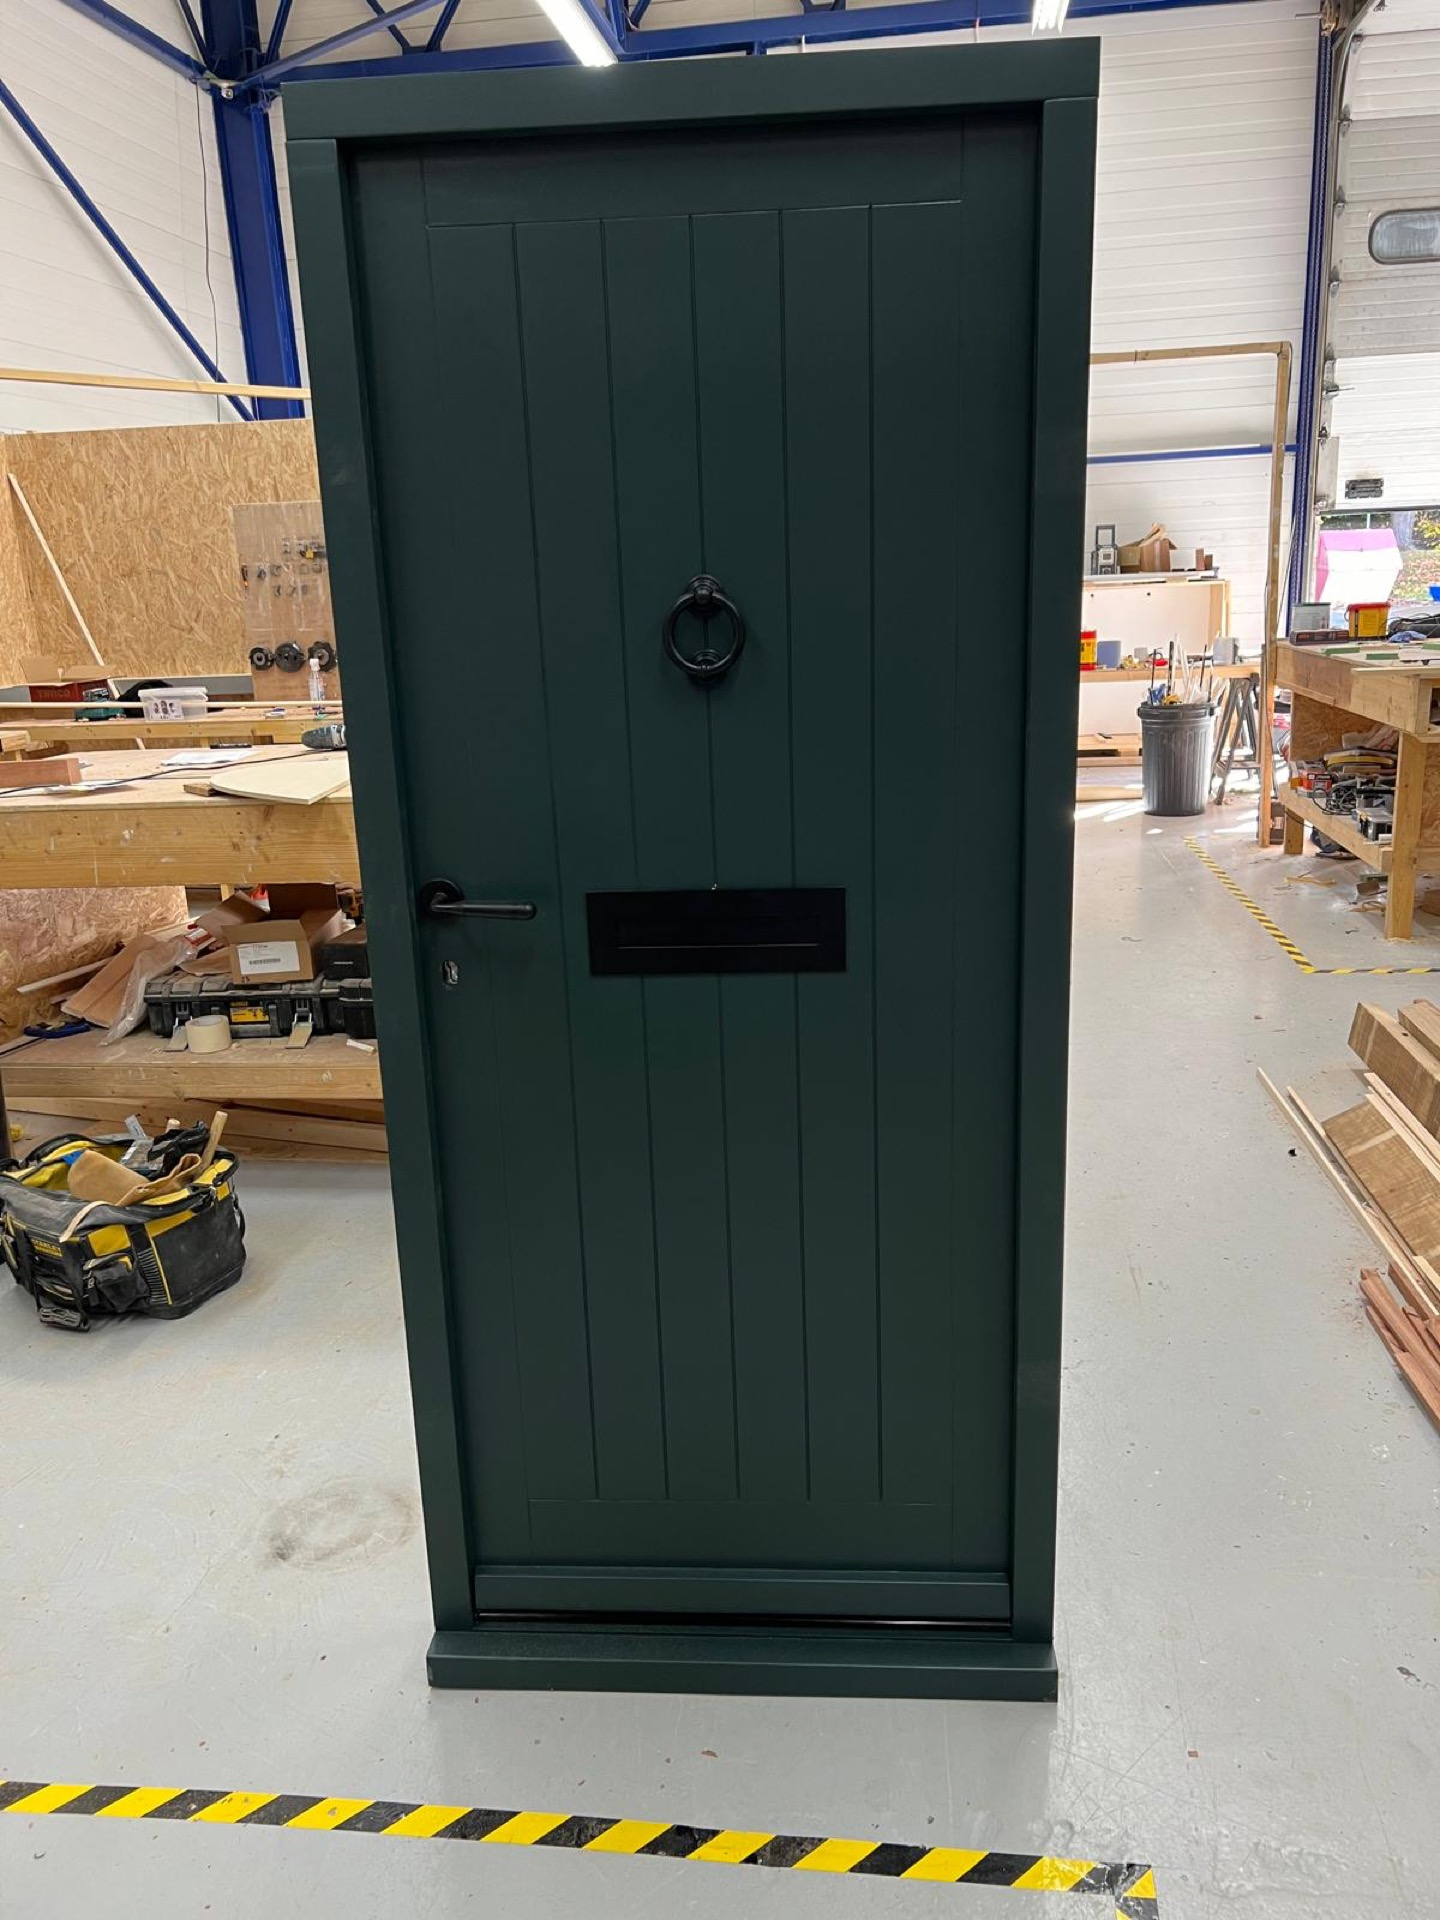
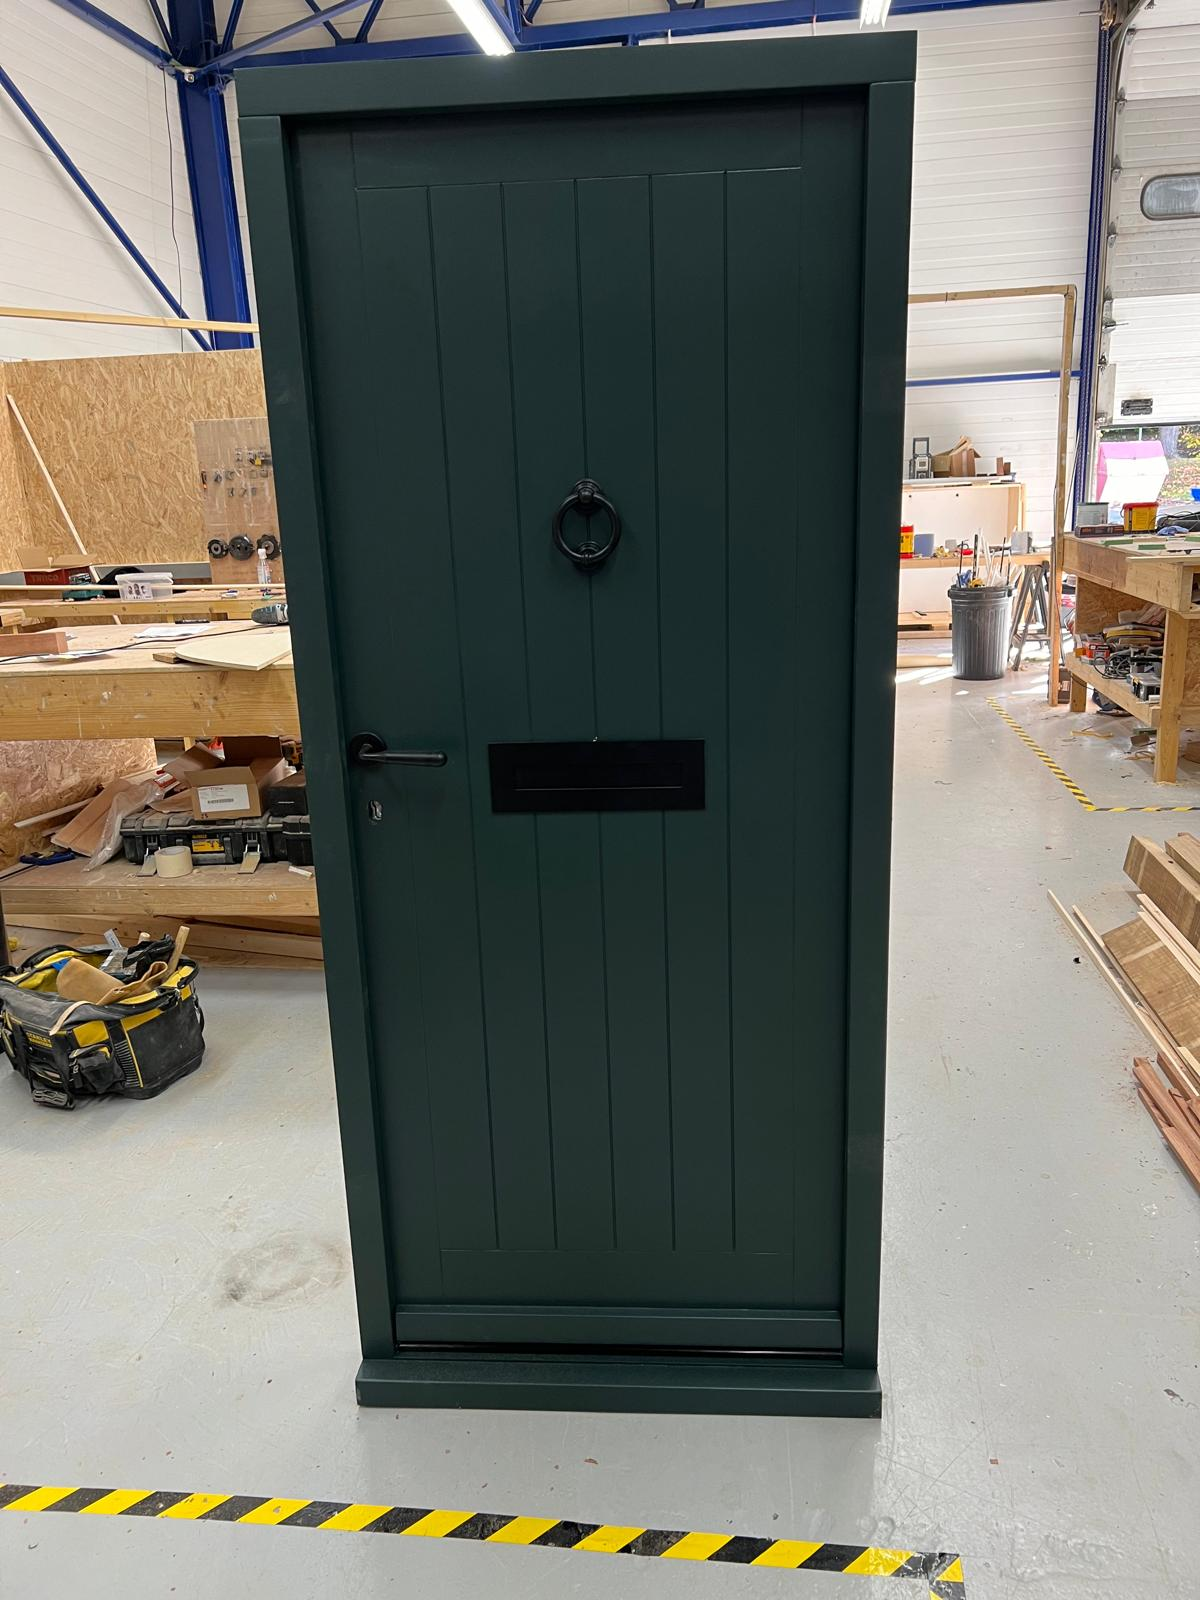
Client updates batch 1: pre-approved fix, Fineo reword, nationwide copy, footer partner links, Google reviews, composite doors page, door designer link

Changed region(s): [[0.8942, 0.25, 0.925, 0.2812]]

diff --git a/src/app/composite-doors/page.tsx b/src/app/composite-doors/page.tsx
@@ -1,0 +1,152 @@
+import type { Metadata } from 'next';
+import Link from 'next/link';
+import Image from 'next/image';
+
+export const metadata: Metadata = {
+  title: 'Composite Doors Edinburgh | Design Your Door Online | EW&D',
+  description: 'High-performance composite doors supplied and fitted across Scotland. Design your door online with our door designer tool. Competitive pricing, full installation service.',
+};
+
+export default function CompositeDoors() {
+  return (
+    <>
+      <div className="hero-internal" style={{ backgroundImage: "url('/images/traditional mews house front door.jpg')" }}>
+        <div className="hero-content">
+          <h1>Composite Doors — Designed Online, Installed Perfectly</h1>
+          <p className="hero-sub">High-performance composite doors designed to your exact specification. Use our online door designer, then let us handle supply and installation across Scotland.</p>
+          <div className="hero-ctas">
+            <a href="https://portico.portal.bm-touch.co.uk/launch/edinburgh-windows-and-doo462" target="_blank" rel="noopener noreferrer" className="btn btn-primary btn-lg">Design Your Door</a>
+            <Link href="/contact" className="btn btn-white btn-lg">Get a Quote</Link>
+          </div>
+        </div>
+      </div>
+
+      {/* Door designer CTA */}
+      <section style={{ background: 'var(--navy)', padding: '3rem 2rem' }}>
+        <div className="container">
+          <div className="two-col" style={{ alignItems: 'center', gap: '3rem' }}>
+            <div>
+              <span className="section-eyebrow" style={{ color: 'var(--orange)' }}>Online Door Designer</span>
+              <h2 style={{ color: '#fff', fontSize: '2rem', marginBottom: '1rem' }}>Design your door in minutes</h2>
+              <p style={{ color: 'rgba(255,255,255,0.8)', lineHeight: 1.7, marginBottom: '1.5rem' }}>Use our interactive door designer to choose your style, colour, glazing, and hardware. See exactly what your door will look like before you order — then send us your design and we&apos;ll take care of everything.</p>
+              <ul style={{ color: 'rgba(255,255,255,0.75)', lineHeight: 2, listStyle: 'none', marginBottom: '2rem' }}>
+                <li>✓ Hundreds of door styles and colour options</li>
+                <li>✓ Choose glazing panels and decorative glass</li>
+                <li>✓ Select hardware — handles, knockers, letterplates</li>
+                <li>✓ Preview your design before ordering</li>
+              </ul>
+              <a href="https://portico.portal.bm-touch.co.uk/launch/edinburgh-windows-and-doo462" target="_blank" rel="noopener noreferrer" className="btn btn-primary btn-lg">Open Door Designer →</a>
+            </div>
+            <div style={{ textAlign: 'center' }}>
+              <Image
+                src="/images/Accoya timber front door bespoke.jpg"
+                alt="Composite door design options"
+                width={500}
+                height={550}
+                style={{ width: '100%', height: 'auto', borderRadius: '4px', maxWidth: '420px' }}
+              />
+            </div>
+          </div>
+        </div>
+      </section>
+
+      {/* Why composite */}
+      <section className="light-bg">
+        <div className="container">
+          <span className="section-eyebrow">Why Composite?</span>
+          <h2 className="section-title">The Benefits of Composite Doors</h2>
+          <div className="features-grid">
+            <div className="feature-box">
+              <h3>Outstanding Security</h3>
+              <p>Multi-point locking as standard. GRP composite skin over insulated foam core. Tough, resistant to warping and forced entry.</p>
+            </div>
+            <div className="feature-box">
+              <h3>Low Maintenance</h3>
+              <p>Never needs painting. Colour-fast UV-stable finish holds for decades. Just wipe clean — no sanding, no repainting.</p>
+            </div>
+            <div className="feature-box">
+              <h3>Excellent Thermal Performance</h3>
+              <p>Insulated foam core gives composite doors outstanding energy efficiency — far better than timber or uPVC alternatives.</p>
+            </div>
+            <div className="feature-box">
+              <h3>Authentic Timber Look</h3>
+              <p>Woodgrain finish is virtually indistinguishable from timber at a glance — without any of the maintenance requirements.</p>
+            </div>
+            <div className="feature-box">
+              <h3>Wide Style Range</h3>
+              <p>Hundreds of styles, colours, and glazing options. Traditional, contemporary, cottage, and bespoke designs available.</p>
+            </div>
+            <div className="feature-box">
+              <h3>Fully Installed</h3>
+              <p>We supply and fit. Full installation across Edinburgh, Glasgow, and Scotland. Guaranteed workmanship on all installations.</p>
+            </div>
+          </div>
+        </div>
+      </section>
+
+      {/* Supply & install */}
+      <section>
+        <div className="container">
+          <div className="two-col">
+            <Image
+              src="/images/Accoya door.jpeg"
+              alt="Door installation service"
+              width={600}
+              height={450}
+              style={{ width: '100%', height: 'auto', borderRadius: '4px' }}
+            />
+            <div>
+              <h2>Supply and installation across Scotland</h2>
+              <p>Edinburgh Windows &amp; Doors supplies and installs composite doors across Edinburgh, Glasgow, and throughout Scotland. Whether you&apos;re replacing a single front door or specifying doors for a new development, we&apos;ll handle the full process from design to installation.</p>
+              <p style={{ marginTop: '1rem' }}>For trade customers, we offer competitive supply-only pricing on composite doors with fast lead times. Contact our trade team for a price list.</p>
+              <ul className="feature-list" style={{ marginTop: '1.5rem' }}>
+                <li>Full installation service Scotland-wide</li>
+                <li>Trade supply available</li>
+                <li>New build and replacement projects</li>
+                <li>Residential and commercial</li>
+                <li>Full guarantee on supply and installation</li>
+              </ul>
+              <div style={{ display: 'flex', gap: '1rem', marginTop: '2rem', flexWrap: 'wrap' }}>
+                <a href="https://portico.portal.bm-touch.co.uk/launch/edinburgh-windows-and-doo462" target="_blank" rel="noopener noreferrer" className="btn btn-primary">Design Your Door</a>
+                <Link href="/contact" className="btn btn-outline">Get a Quote</Link>
+              </div>
+            </div>
+          </div>
+        </div>
+      </section>
+
+      {/* FAQ */}
+      <section className="light-bg">
+        <div className="container">
+          <h2 className="section-title">Frequently Asked Questions</h2>
+          <div className="faq-list">
+            {[
+              { q: 'How long does a composite door take to supply and install?', a: 'Lead times vary by style and specification, but typically 4–6 weeks from order to installation. Contact us for current lead times on your chosen door.' },
+              { q: 'Can I design my own door online?', a: 'Yes. Use our online door designer to choose your style, colour, glazing, and hardware. Once you\'re happy with your design, send it to us and we\'ll provide a firm quote.' },
+              { q: 'Do composite doors need planning permission?', a: 'For most properties, no planning permission is needed to replace a front door with a composite door. If your property is listed or in a conservation area, please check with your local planning authority first.' },
+              { q: 'Are composite doors suitable for listed buildings?', a: 'Generally no — conservation officers will usually require a timber replica door for listed and conservation area properties. We manufacture Accoya timber doors that are approved for heritage use. See our Accoya Doors page.' },
+              { q: 'Do you offer trade pricing on composite doors?', a: 'Yes. We offer competitive trade supply pricing on composite doors for builders, developers, and joiners. Contact our trade team for pricing.' },
+              { q: 'What\'s the difference between composite and uPVC doors?', a: 'Composite doors have a solid timber core or insulated foam core with a GRP skin, giving them a much more authentic look and better performance than hollow uPVC doors. They are stronger, more secure, and better insulating.' },
+            ].map(({ q, a }) => (
+              <details key={q} className="faq-item">
+                <summary className="faq-question">{q}</summary>
+                <div className="faq-answer"><p>{a}</p></div>
+              </details>
+            ))}
+          </div>
+        </div>
+      </section>
+
+      <section className="navy-bg">
+        <div className="container" style={{ textAlign: 'center' }}>
+          <h2 style={{ color: '#fff' }}>Ready to design your new door?</h2>
+          <p style={{ color: 'rgba(255,255,255,0.8)', maxWidth: '600px', margin: '0 auto 2rem' }}>Use our door designer, then contact us for a quote. We&apos;ll handle everything from specification to installation.</p>
+          <div style={{ display: 'flex', gap: '1rem', justifyContent: 'center', flexWrap: 'wrap' }}>
+            <a href="https://portico.portal.bm-touch.co.uk/launch/edinburgh-windows-and-doo462" target="_blank" rel="noopener noreferrer" className="btn btn-primary btn-lg">Design Your Door</a>
+            <Link href="/contact" className="btn btn-white btn-lg">Contact Us</Link>
+          </div>
+        </div>
+      </section>
+    </>
+  );
+}

diff --git a/src/styles/globals.css b/src/styles/globals.css
@@ -793,6 +793,36 @@ footer {
   font-size: 0.9rem;
 }
 
+/* Footer partner logos */
+.footer-partners {
+  display: flex;
+  align-items: center;
+  justify-content: center;
+  gap: 2.5rem;
+  padding: 1.75rem 2rem;
+  border-top: 1px solid rgba(255, 255, 255, 0.1);
+  border-bottom: 1px solid rgba(255, 255, 255, 0.1);
+  flex-wrap: wrap;
+}
+
+.footer-partner-link {
+  display: flex;
+  align-items: center;
+  opacity: 0.75;
+  transition: opacity 0.2s ease;
+  text-decoration: none;
+}
+
+.footer-partner-link:hover { opacity: 1; }
+
+.footer-partner-text {
+  font-size: 1.1rem;
+  font-weight: 700;
+  color: rgba(255,255,255,0.85);
+  letter-spacing: 0.04em;
+  font-family: 'Inter', sans-serif;
+}
+
 /* Form styles */
 .form-group {
   margin-bottom: 1.5rem;
@@ -1604,4 +1634,97 @@ section.navy-bg .form-group textarea { background: rgba(255,255,255,0.08); borde
   .project-detail-hero { height: 60vh; }
   .project-detail-hero h1 { font-size: 1.6rem; }
 }
+
+/* ─── NATIVE DETAILS/SUMMARY FAQ ─── */
+details.faq-item {
+  border-bottom: 1px solid var(--border-grey);
+}
+
+details.faq-item summary.faq-question {
+  display: flex;
+  justify-content: space-between;
+  align-items: center;
+  padding: 1.35rem 0;
+  cursor: pointer;
+  font-family: 'Inter', sans-serif;
+  font-size: 1rem;
+  font-weight: 600;
+  color: var(--navy);
+  line-height: 1.45;
+  transition: color 0.2s;
+  list-style: none;
+}
+
+details.faq-item summary.faq-question::-webkit-details-marker { display: none; }
+
+details.faq-item summary.faq-question::after {
+  content: '+';
+  flex-shrink: 0;
+  width: 28px;
+  height: 28px;
+  border-radius: 50%;
+  border: 1.5px solid var(--border-grey);
+  display: flex;
+  align-items: center;
+  justify-content: center;
+  font-size: 1.1rem;
+  color: var(--navy);
+  transition: background 0.2s, border-color 0.2s, transform 0.3s;
+  line-height: 1;
+}
+
+details.faq-item[open] summary.faq-question::after {
+  content: '+';
+  background: var(--orange);
+  border-color: var(--orange);
+  color: #fff;
+  transform: rotate(45deg);
+}
+
+details.faq-item summary.faq-question:hover { color: var(--orange); }
+
+details.faq-item .faq-answer {
+  overflow: visible;
+  max-height: none;
+}
+
+details.faq-item .faq-answer p {
+  padding-bottom: 1.35rem;
+  font-size: 0.97rem;
+  color: var(--dark);
+  line-height: 1.8;
+  margin-bottom: 0;
+}
+
+/* ─── DOOR IMAGE GALLERY ─── */
+.door-gallery {
+  display: grid;
+  grid-template-columns: repeat(3, 1fr);
+  gap: 1.25rem;
+  margin-top: 2.5rem;
+}
+
+.door-gallery-item {
+  position: relative;
+  aspect-ratio: 3/4;
+  overflow: hidden;
+  border-radius: 4px;
+}
+
+.door-gallery-item img {
+  transition: transform 0.4s ease;
+}
+
+.door-gallery-item:hover img {
+  transform: scale(1.04);
+}
+
+@media (max-width: 768px) {
+  .door-gallery { grid-template-columns: repeat(2, 1fr); }
+}
+
+@media (max-width: 480px) {
+  .door-gallery { grid-template-columns: 1fr; }
+}
+
 

diff --git a/src/components/Footer.tsx b/src/components/Footer.tsx
@@ -15,6 +15,11 @@ export default function Footer() {
             style={{ height: '50px', width: 'auto' }}
           />
           <p className="footer-tagline">Scottish timber sash &amp; case window manufacturer. Est. 2019.</p>
+          <p className="footer-tagline" style={{ marginTop: '0.5rem' }}>
+            <a href="https://www.google.com/search?hl=en-GB&gl=uk&q=EDINBURGH+WINDOWS+AND+DOORS,+2c+Young+Square,+Bellsquarry,+Livingston+EH54+9BX&ludocid=11310449275001631798&lsig=AB86z5WGF8Coig5VhDGl6MpYLM4q#lrd=" target="_blank" rel="noopener noreferrer" style={{ color: 'var(--orange)', fontWeight: 600, fontSize: '0.9rem' }}>
+              ★ Read our Google reviews
+            </a>
+          </p>
         </div>
         <div className="footer-col">
           <h3>Products</h3>
@@ -22,7 +27,7 @@ export default function Footer() {
             <li><Link href="/sash-windows">Sash &amp; Case Windows</Link></li>
             <li><Link href="/accoya-doors">Accoya Timber Doors</Link></li>
             <li><Link href="/secondary-glazing">Secondary Glazing</Link></li>
-            <li><Link href="/contact">Composite Doors</Link></li>
+            <li><Link href="/composite-doors">Composite Doors</Link></li>
           </ul>
         </div>
         <div className="footer-col">
@@ -39,16 +44,31 @@ export default function Footer() {
           <div className="footer-contact-info">
             <p><strong>Phone:</strong><br />[phone redacted]</p>
             <p><strong>Email:</strong><br />[email redacted]</p>
-            <p><strong>Location:</strong><br />Edinburgh</p>
+            <p><strong>Location:</strong><br />Edinburgh &amp; Scotland-wide</p>
             <p style={{ marginTop: '1rem', fontSize: '0.85rem' }}>
               Response within 1 working day<br />Mon–Fri 8am–5pm
             </p>
           </div>
         </div>
       </div>
+
+      {/* Partner logos strip */}
+      <div className="footer-partners">
+        <a href="https://www.accoya.com/uk/#where-to-buy" target="_blank" rel="noopener noreferrer" className="footer-partner-link" aria-label="Accoya approved manufacturer">
+          <Image src="/images/Accoya_Affiliate mark_Approved manufacturer_WHITE ON GREEN_RGB.jpg" alt="Accoya Approved Manufacturer" width={120} height={48} style={{ height: '48px', width: 'auto' }} />
+        </a>
+        <a href="https://www.fineoglass.eu/" target="_blank" rel="noopener noreferrer" className="footer-partner-link" aria-label="Fineo glass supplier">
+          <span className="footer-partner-text">Fineo Glass</span>
+        </a>
+        <a href="https://www.trustedtrader.scot/Edinburgh/Edinburgh-Windows-an-0002416.html" target="_blank" rel="noopener noreferrer" className="footer-partner-link" aria-label="Edinburgh Trusted Trader">
+          <span className="footer-partner-text">✓ Trusted Trader</span>
+        </a>
+      </div>
+
       <div className="footer-copyright">
         <p>&copy; {new Date().getFullYear()} Edinburgh Windows and Doors. All rights reserved. Scottish timber manufacturer.</p>
       </div>
     </footer>
   );
 }
+

diff --git a/src/app/listed-buildings/page.tsx b/src/app/listed-buildings/page.tsx
@@ -4,7 +4,7 @@ import Image from 'next/image';
 
 export const metadata: Metadata = {
   title: 'Listed Building Windows & Doors | Heritage Window Specialists Edinburgh',
-  description: 'Specialist timber windows and doors for listed buildings and conservation areas. Pre-approved by Edinburgh City Council. Category A & B listed building specialists.',
+  description: 'Specialist timber windows and doors for listed buildings and conservation areas across Scotland. Category A & B listed building experience. Heritage glazing specialists.',
 };
 
 export default function ListedBuildingsPage() {
@@ -16,9 +16,9 @@ export default function ListedBuildingsPage() {
         </video>
         <div className="hero-overlay" />
         <div className="hero-content">
-          <span className="hero-eyebrow">Heritage Glazing Specialists · Edinburgh</span>
-          <h1>Sash and Case Windows for Listed Buildings in Edinburgh</h1>
-          <p className="hero-sub">Approved heritage glazing. Traditional timber manufacture. Survey to installation across Edinburgh.</p>
+          <span className="hero-eyebrow">Heritage Glazing Specialists · Scotland</span>
+          <h1>Sash and Case Windows for Listed Buildings</h1>
+          <p className="hero-sub">Approved heritage glazing. Traditional timber manufacture. Survey to installation across Scotland and the UK.</p>
           <div className="hero-ctas">
             <Link href="/contact" className="btn btn-primary btn-lg">Book a Free Survey</Link>
             <Link href="tel:[phone redacted]" className="btn btn-white btn-lg">📞 [phone redacted]</Link>
@@ -32,15 +32,15 @@ export default function ListedBuildingsPage() {
           <div className="two-col">
             <Image src="/images/Edinburgh property full sash and case refurbishment.JPG" alt="Listed building window refurbishment" width={600} height={450} style={{ width: '100%', height: 'auto', borderRadius: '4px' }} />
             <div>
-              <h2>Pre-approved for Edinburgh&apos;s listed properties</h2>
-              <p>We are an approved supplier of heritage glazing units, with our products pre-approved by Edinburgh City Council for use in listed and conservation area properties across the city.</p>
-              <p style={{ marginTop: '1rem' }}>This means faster planning approvals for your project — we&apos;ve already done the legwork so your conservation officer doesn&apos;t have to.</p>
+              <h2>Experienced in Scotland&apos;s listed building requirements</h2>
+              <p>We are an approved Accoya manufacturer and supplier of heritage glazing units, with extensive experience working on listed and conservation area properties across Edinburgh and Scotland. Please note that planning permission will still be required for your project — we work closely with conservation officers and can provide full product specifications and compliance documentation to support your application.</p>
+              <p style={{ marginTop: '1rem' }}>Our products are recognised by Historic Environment Scotland and Edinburgh City Council, and we have a strong track record of successful planning outcomes on Category A and B listed properties.</p>
               <ul className="feature-list" style={{ marginTop: '1.5rem' }}>
-                <li>Pre-approved by Edinburgh City Council</li>
+                <li>Experienced with Edinburgh City Council conservation officers</li>
                 <li>Compliant with Historic Environment Scotland guidance</li>
                 <li>Category A and B listed building experience</li>
-                <li>Fineo vacuum glass for ultra-thin heritage glazing</li>
-                <li>Accoya timber — approved for heritage use</li>
+                <li>Fineo ultra-thin vacuum insulated glass for heritage properties</li>
+                <li>Accoya timber — recognised for heritage use by HES</li>
                 <li>Craighouse: 136 windows, Category A listed</li>
               </ul>
             </div>
@@ -54,7 +54,7 @@ export default function ListedBuildingsPage() {
           <div className="features-grid">
             <div className="feature-box"><h3>Replica Sash Windows</h3><p>Exact replicas of original windows. Match existing profiles, mouldings, and hardware to planning specification.</p></div>
             <div className="feature-box"><h3>Heritage Secondary Glazing</h3><p>Retain original windows, add internal secondary panel. Planning-friendly thermal improvement.</p></div>
-            <div className="feature-box"><h3>Fineo Glass</h3><p>Vacuum glass in an ultra-thin format. Virtually invisible from outside. Outstanding thermal performance.</p></div>
+            <div className="feature-box"><h3>Fineo Glass</h3><p>Ultra-thin vacuum insulated glass delivering outstanding thermal performance while preserving the appearance of traditional glazing.</p></div>
             <div className="feature-box"><h3>Accoya Doors</h3><p>Replica period doors in Accoya. 50-year guarantee. Accepted by Historic Environment Scotland.</p></div>
             <div className="feature-box"><h3>Conservation Area Work</h3><p>We understand conservation area requirements across Edinburgh, Glasgow, and historic Scottish towns.</p></div>
             <div className="feature-box"><h3>Planning Support</h3><p>We can provide product specifications and compliance documentation to support your planning application.</p></div>